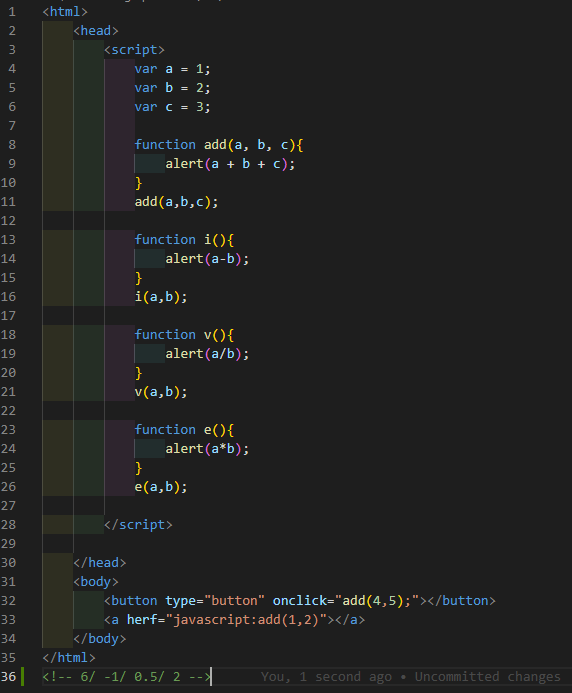
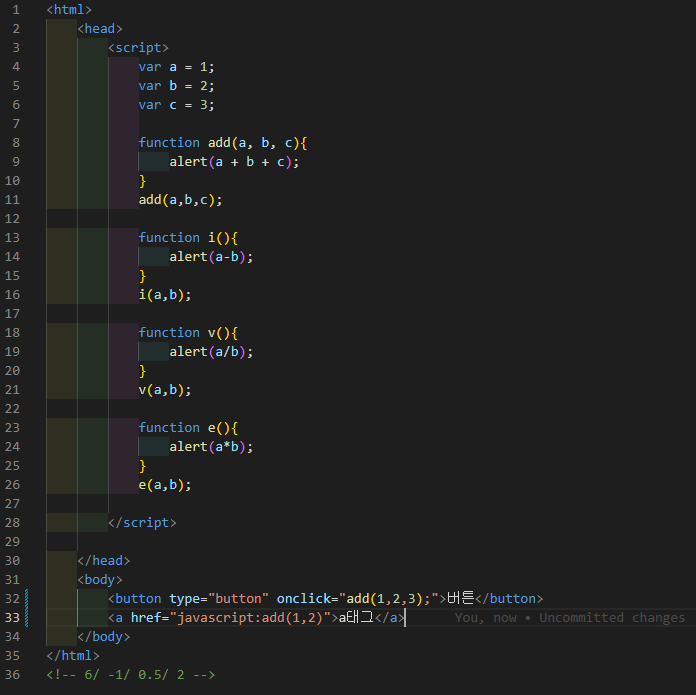
function() rewrite

diff --git a/Javascript_if,for문,함수/function().html b/Javascript_if,for문,함수/function().html
@@ -29,8 +29,8 @@
 
     </head>
     <body>
-        <button type="button" onclick="add(4,5);"></button>
-        <a herf="javascript:add(1,2)"></a>
+        <button type="button" onclick="add(1,2,3);">버튼</button>
+        <a href="javascript:add(1,2)">a태그</a>
     </body>
 </html>
 <!-- 6/ -1/ 0.5/ 2 -->
